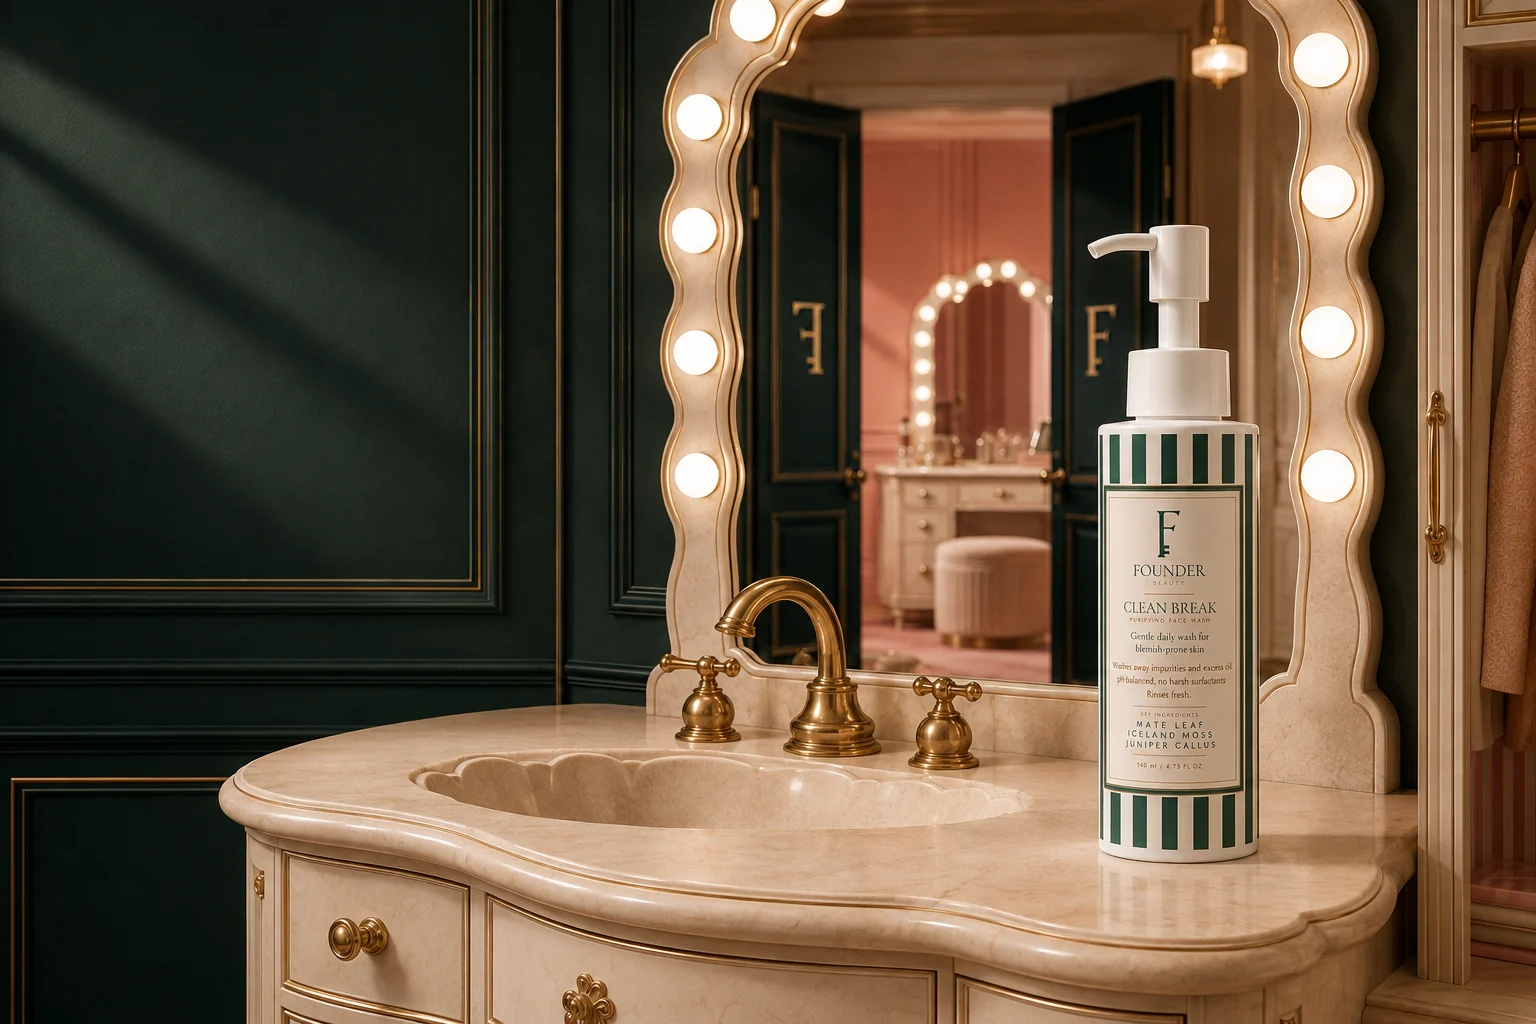
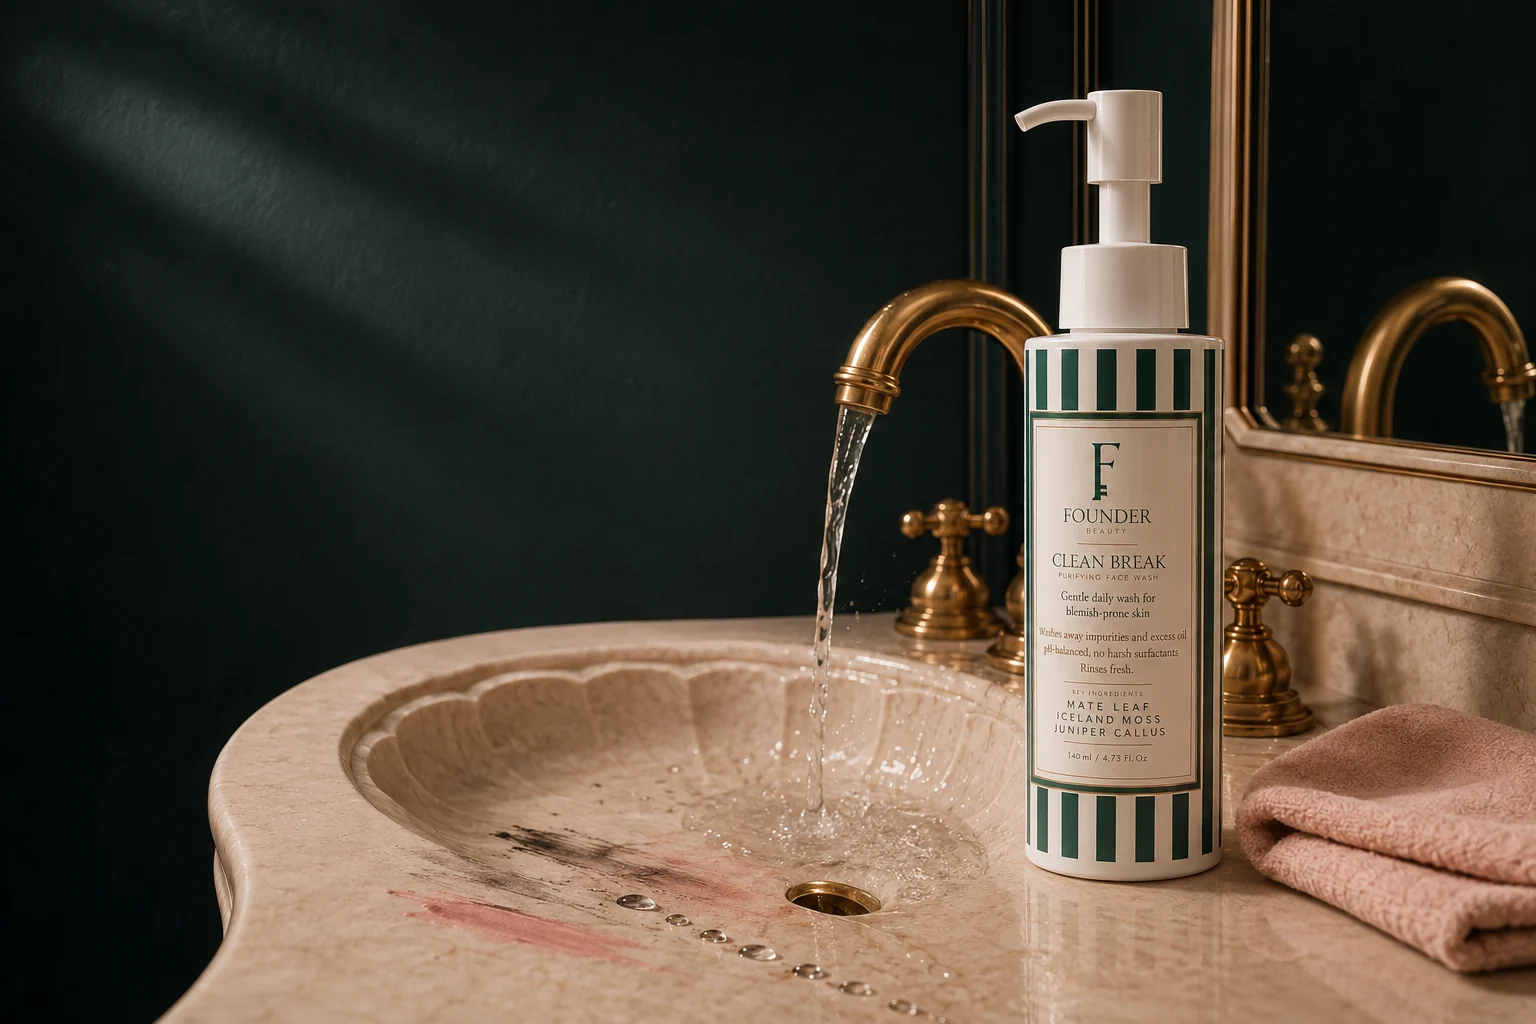
The Next Move: products in use, not on a shelf

diff --git a/src/lib/nextMove.ts b/src/lib/nextMove.ts
@@ -142,7 +142,7 @@ export const NEXT_MOVE: NextMoveProduct[] = [
     reservationStatus: "Reservation — no charge and no ship date yet.",
     detailHero: {
       src: "/products/clean-break-vanity.webp",
-      alt: "The Clean Break bottle standing on a cream marble vanity with a brass tap, beside a lit dressing-room mirror.",
+      alt: "The Clean Break bottle on a cream marble basin beside a running brass tap, a blush towel folded alongside, against a dark green wall.",
     },
     cta: "Start fresh",
     stripes: { a: "var(--color-cream)", b: "var(--color-founder-green)" },
@@ -174,10 +174,16 @@ export const NEXT_MOVE: NextMoveProduct[] = [
     ],
     keyIngredients: ["Ceramides", "Cocoa Butter", "Vitamin E"],
     size: "12 g / 0.42 oz",
-    /* Three shades, supplied 25 Aug. Alt text is the brief's wording
-       verbatim. No SPF, sunscreen, broad-spectrum or UV language anywhere
-       in these strings — that rule covers alt text and metadata, not just
-       visible copy. */
+    /* Three shades. The 25 Aug set was a straight pack shot per shade;
+       these replace it with the same three in use — stick and carton on a
+       surface, the shade being blended in the mirror behind. Same file
+       names and the same 1536x1024, so nothing downstream moves.
+
+       Every carton was read at full resolution before import: SMOOTH TALKER
+       / CERAMIDE TONE STICK, the right shade code, 12 g / 0.42 oz, and no
+       SPF, sunscreen, broad-spectrum or UV wording anywhere on the pack.
+       That rule covers these alt strings and metadata too, not just visible
+       copy. */
     shades: [
       {
         code: "20",
@@ -185,7 +191,7 @@ export const NEXT_MOVE: NextMoveProduct[] = [
         handle: "20-light",
         hero: {
           src: "/products/smooth-talker-20-light.webp",
-          alt: "FOUNDER Smooth Talker Ceramide Tone Stick in 20 LIGHT, with its pale ivory-beige and cream striped carton.",
+          alt: "FOUNDER Smooth Talker Ceramide Tone Stick in 20 LIGHT beside its pale ivory and cream striped carton on a marble dressing table, a woman blending a swatch along her cheekbone in the mirror behind.",
         },
       },
       {
@@ -194,7 +200,7 @@ export const NEXT_MOVE: NextMoveProduct[] = [
         handle: "25-medium",
         hero: {
           src: "/products/smooth-talker-25-medium.webp",
-          alt: "FOUNDER Smooth Talker Ceramide Tone Stick in 25 MEDIUM, with its warm beige and cream striped carton.",
+          alt: "FOUNDER Smooth Talker Ceramide Tone Stick in 25 MEDIUM beside its warm beige and cream striped carton on a brass side table, a swatch of the cream drawn beside it and a woman blending it along her cheek in the mirror behind.",
         },
       },
       {
@@ -203,7 +209,7 @@ export const NEXT_MOVE: NextMoveProduct[] = [
         handle: "35-deep",
         hero: {
           src: "/products/smooth-talker-35-deep.webp",
-          alt: "FOUNDER Smooth Talker Ceramide Tone Stick in 35 DEEP, with its espresso-brown and cream striped carton.",
+          alt: "FOUNDER Smooth Talker Ceramide Tone Stick in 35 DEEP beside its espresso-brown and cream striped carton on a dark tray, a woman blending a swatch along her jaw in the mirror behind.",
         },
       },
     ],
@@ -217,7 +223,7 @@ export const NEXT_MOVE: NextMoveProduct[] = [
        the default shade so nothing can render empty. */
     detailHero: {
       src: "/products/smooth-talker-25-medium.webp",
-      alt: "FOUNDER Smooth Talker Ceramide Tone Stick in 25 MEDIUM, with its warm beige and cream striped carton.",
+      alt: "FOUNDER Smooth Talker Ceramide Tone Stick in 25 MEDIUM beside its warm beige and cream striped carton on a brass side table.",
     },
     cta: "Make your move",
     stripes: { a: "var(--color-cream)", b: "var(--color-champagne)" },
